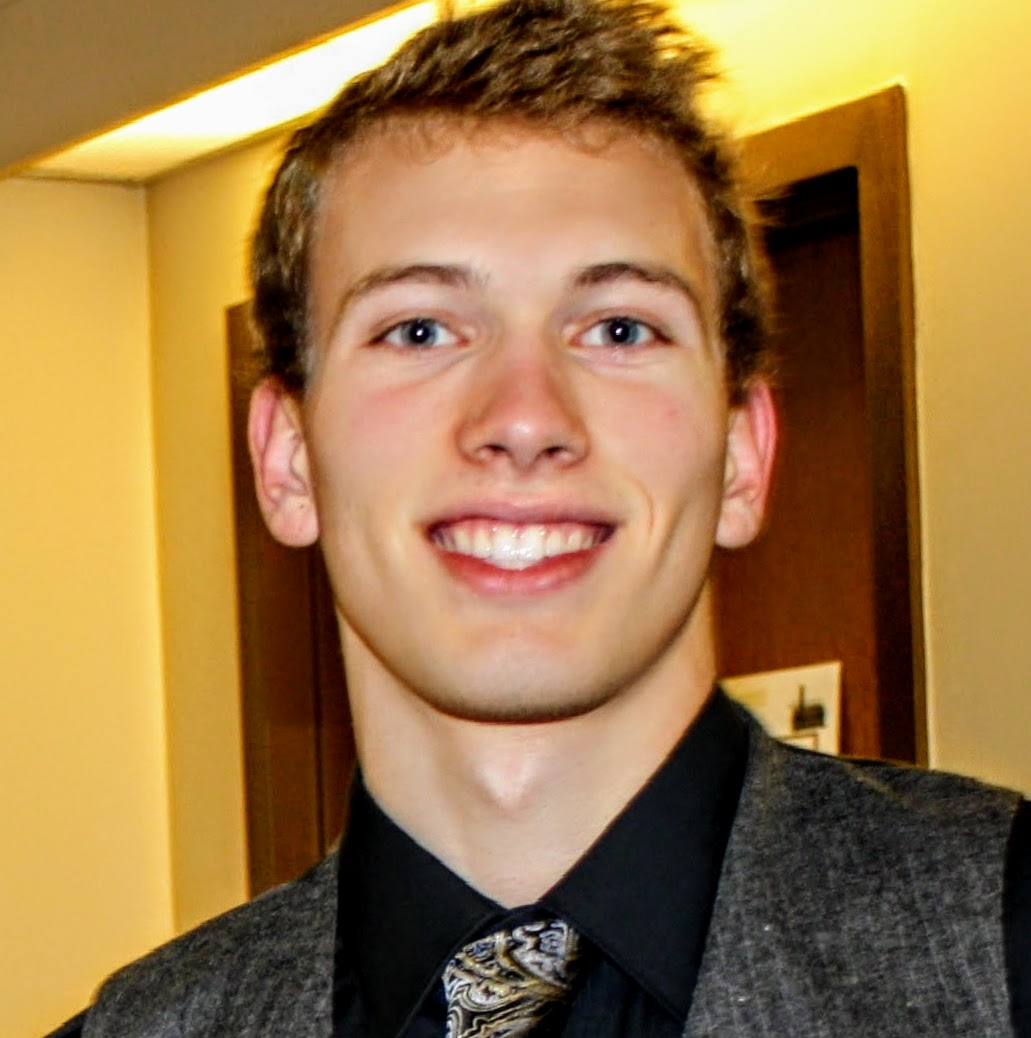
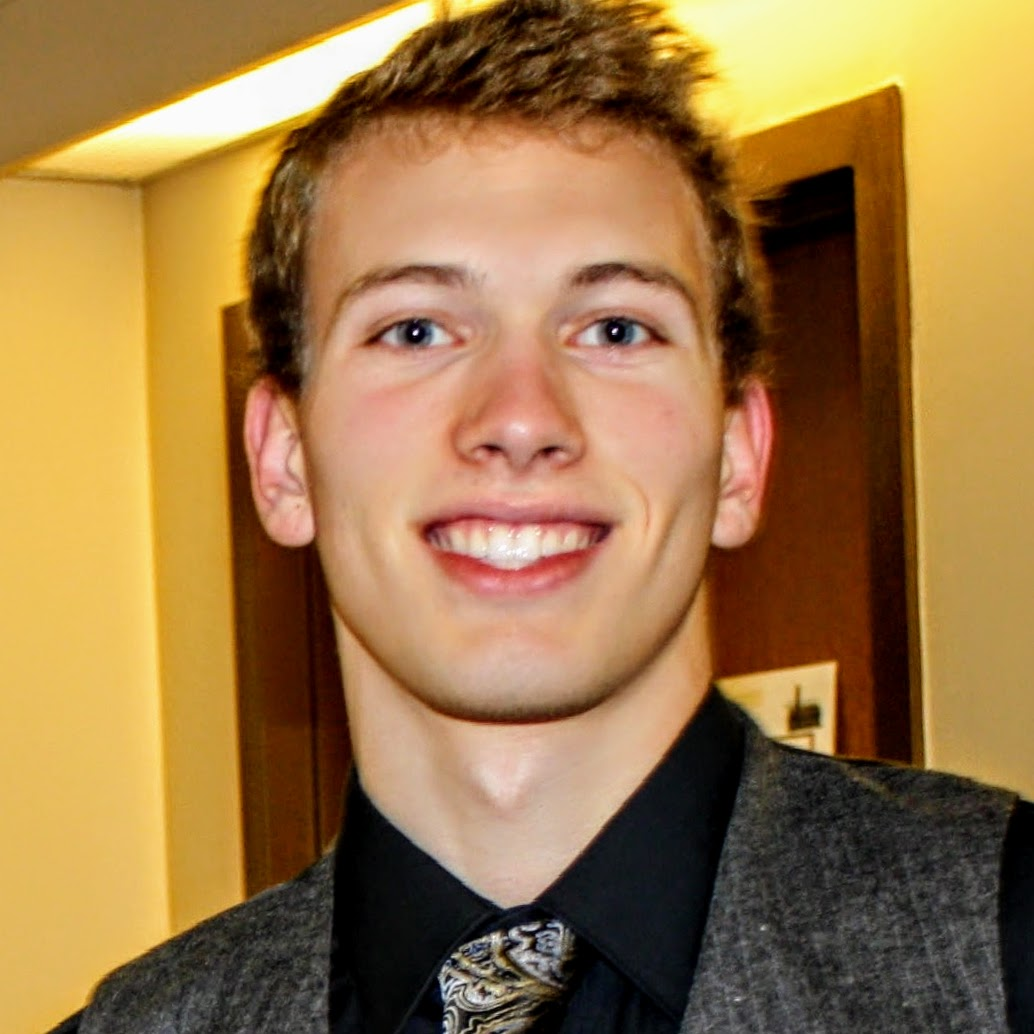
Replaced image with square, reduced display size.

diff --git a/_layouts/default.html b/_layouts/default.html
@@ -18,7 +18,7 @@
         <a href="{{ site.github.url }}"> <h1> Curtis G. Northcutt </h1> </a>
         <!-- <p>{{ site.description | default: site.github.project_tagline }}</p> -->
         <a href="{{ site.github.url }}">
-          <img src="/resources/img/headshot.jpg" alt="Photo of Curtis G. Northcutt, Ph.D. Candidate at MIT.">
+          <img src="/resources/img/headshot.jpg" alt="Photo of Curtis G. Northcutt, Ph.D. Candidate at MIT." width="200">
         </a>
         <p class="view">Ph.D. Candidate in Computer Science at MIT</p>
         <p class="view"><a href="{{ site.github.owner_url }}">GitHub</a> | <a href="https://scholar.google.com/citations?user=awRyuUYAAAAJ&hl=en">Google Scholar</a> | <a href="/resources/pdf/cv.pdf">Resume</a> </p>

diff --git a/assets/css/style.scss b/assets/css/style.scss
@@ -8,5 +8,5 @@ header {
 }
 
 section {
-  width:100px;
+  width:1000px;
 }
